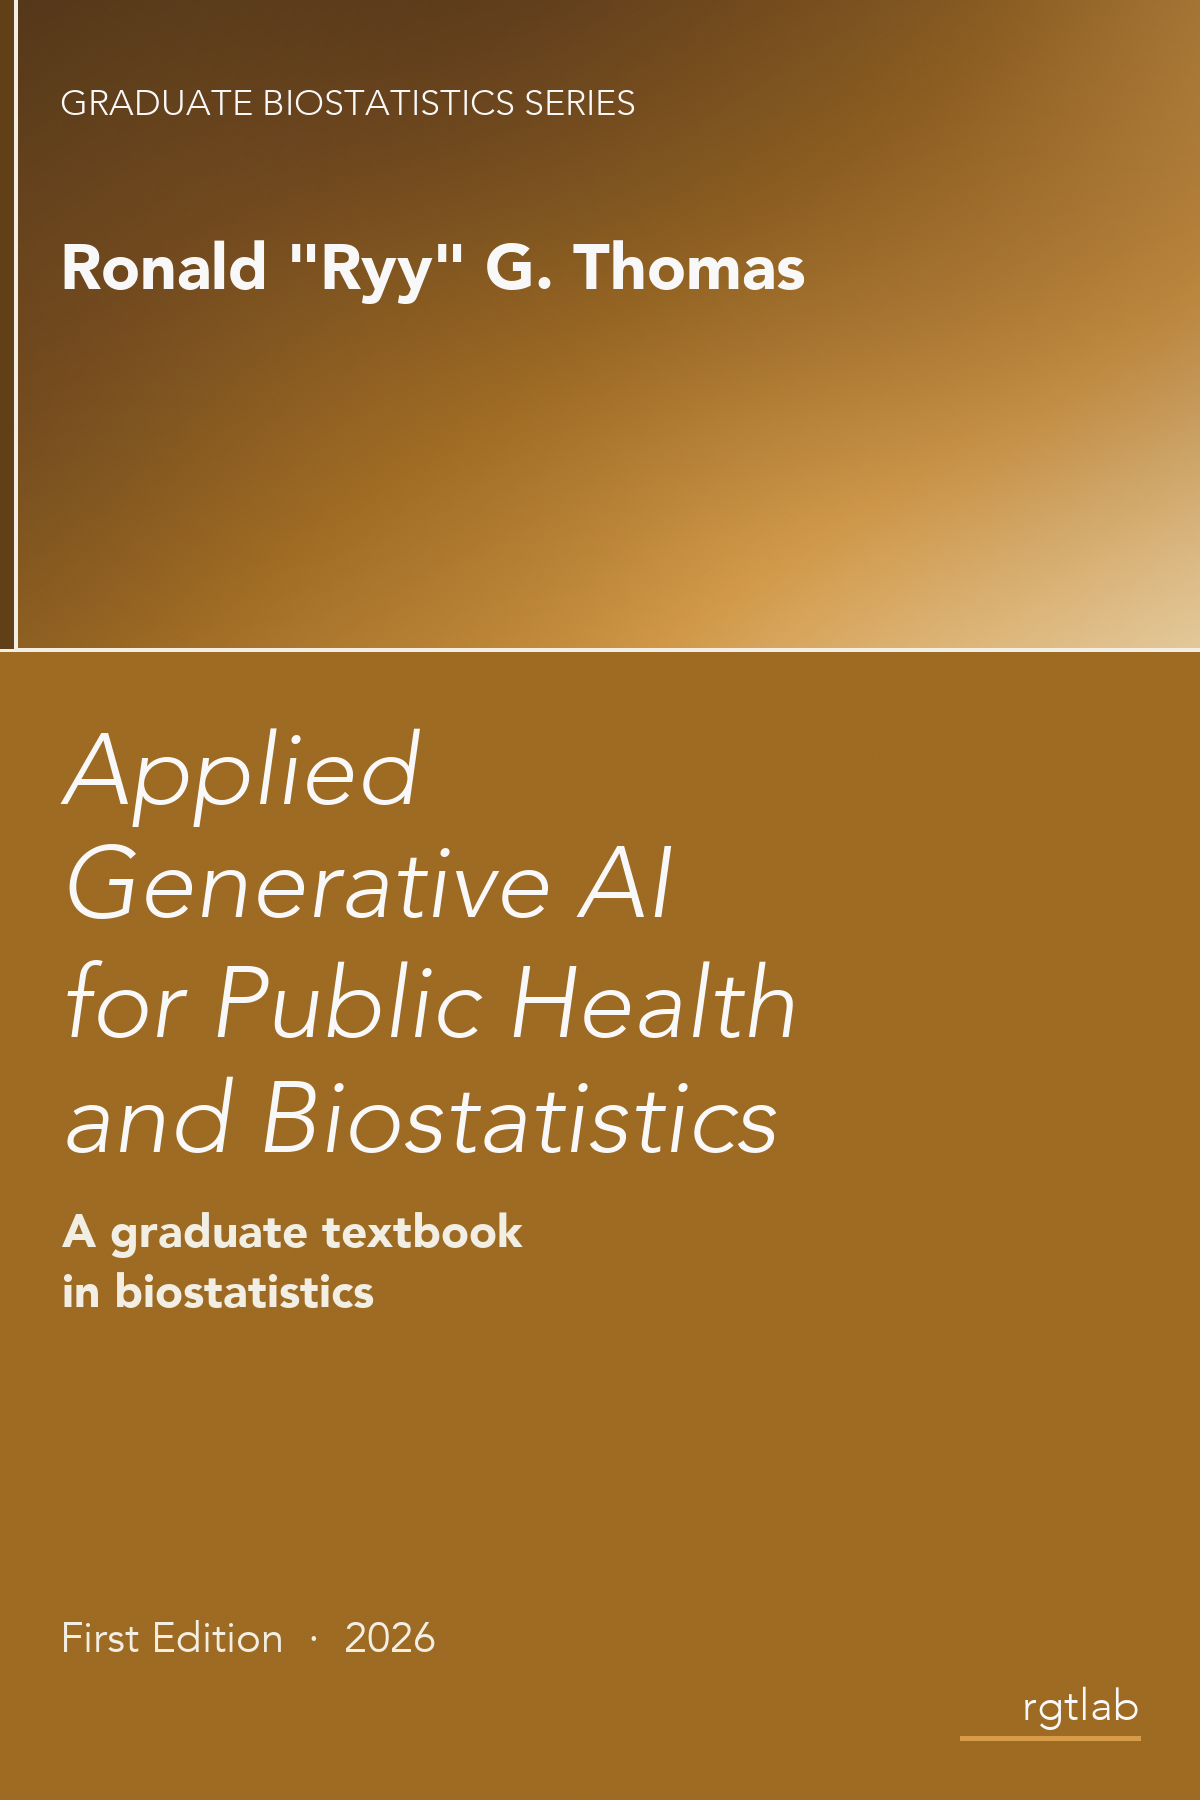
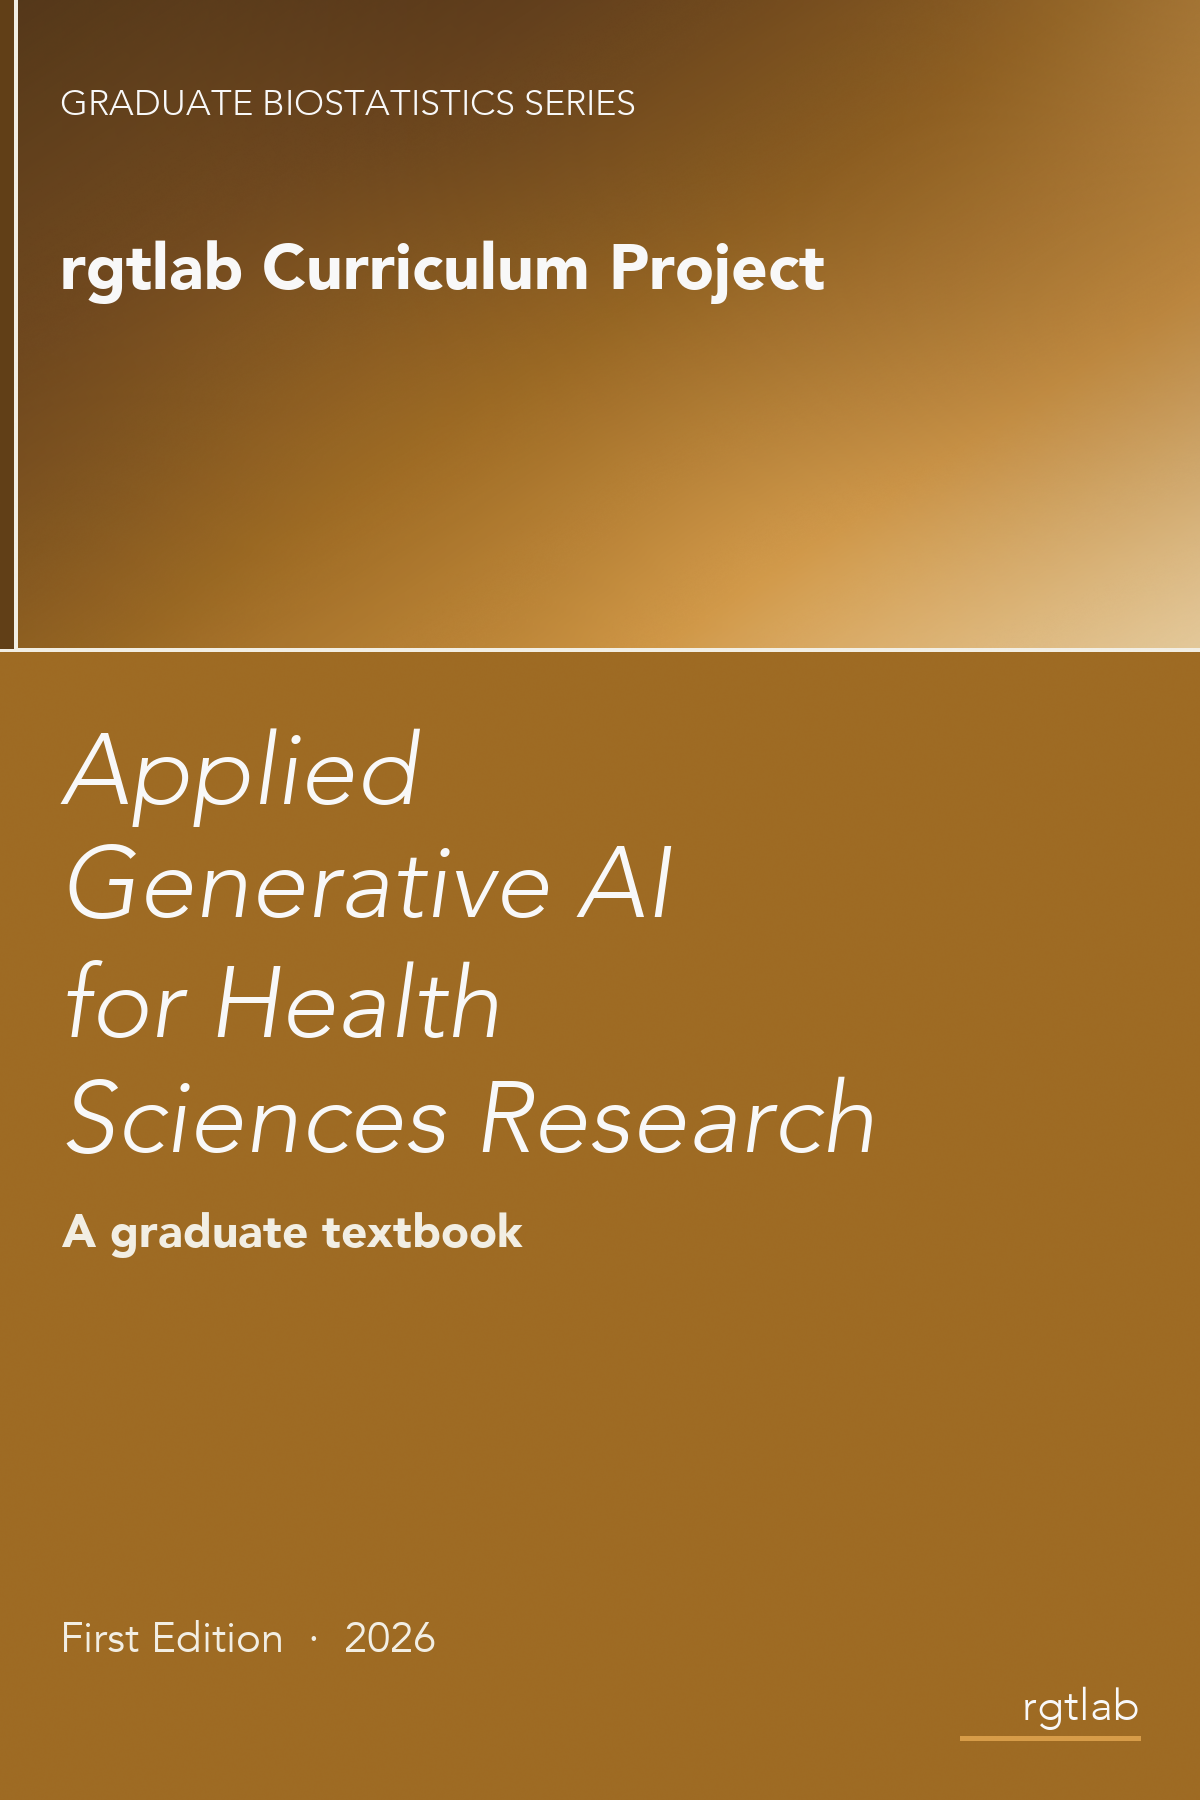
Auto-backup: 2026-04-28 16:18:49

Changed region(s): [[0.0617, 0.5289, 0.74, 0.6533], [0.0617, 0.1244, 0.6783, 0.1867], [0.0617, 0.7156, 0.3083, 0.7467]]

diff --git a/images/build-cover.py b/images/build-cover.py
@@ -158,7 +158,7 @@ def build():
               series_fnt, WHITE)
 
     author_fnt = font('avenir-medium', 64)
-    authors = ['Ronald "Ryy" G. Thomas']
+    authors = ['rgtlab Curriculum Project']
     y = 240
     for line in authors:
         draw_text(draw, (60, y), line, author_fnt, WHITE)
@@ -168,8 +168,8 @@ def build():
     title_fnt   = font('avenir-black', 100)
     title_lines = ['Applied',
                    'Generative AI',
-                   'for Public Health',
-                   'and Biostatistics']
+                   'for Health',
+                   'Sciences Research']
     y = SPLIT_Y + 80
     for line in title_lines:
         draw_text(draw, (60, y), line, title_fnt, WHITE)
@@ -177,8 +177,7 @@ def build():
 
     sub_fnt = font('avenir-medium', 46)
     y += 20
-    for line in ['A graduate textbook',
-                 'in biostatistics']:
+    for line in ['A graduate textbook']:
         draw_text(draw, (62, y), line, sub_fnt, CREAM)
         y += 60
 
